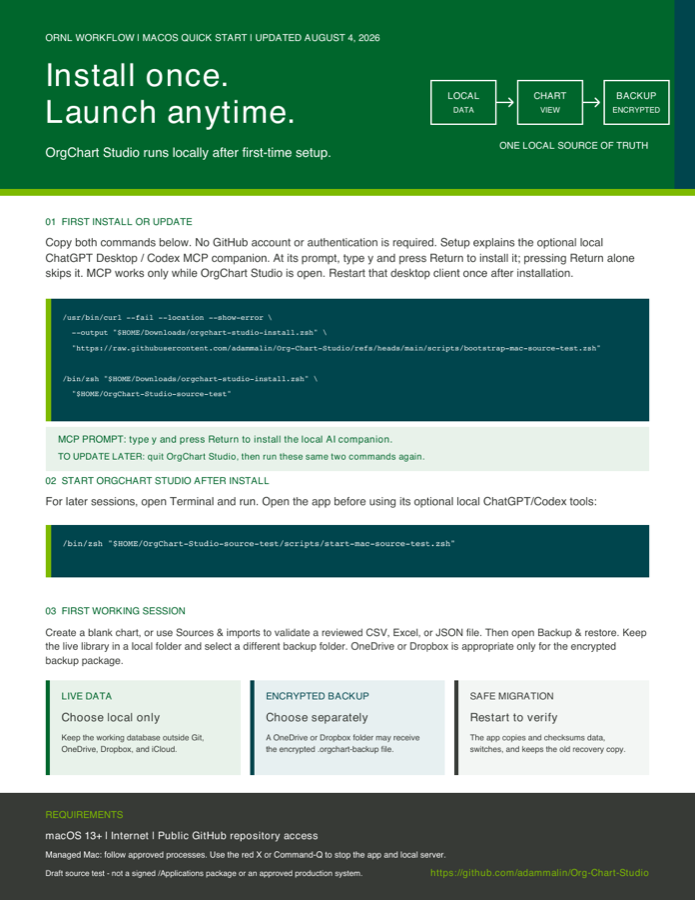
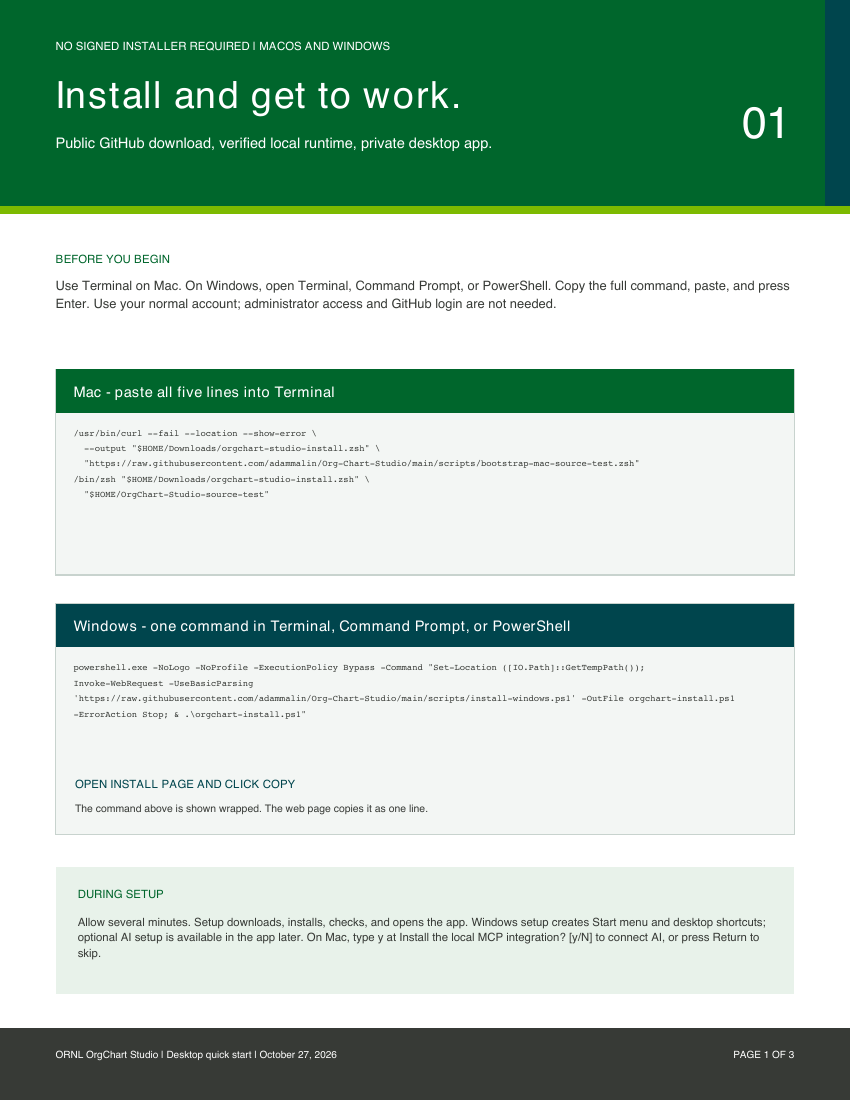
Use one-paste Windows setup for OrgChart Studio

diff --git a/app/app-data.ts b/app/app-data.ts
@@ -96,6 +96,8 @@ export type AppEntry = {
   sourceNote?: string;
 };
 
+const orgChartWindowsInstall = "powershell.exe -NoLogo -NoProfile -ExecutionPolicy Bypass -Command \"Set-Location ([IO.Path]::GetTempPath()); Invoke-WebRequest -UseBasicParsing 'https://raw.githubusercontent.com/adammalin/Org-Chart-Studio/main/scripts/install-windows.ps1' -OutFile orgchart-install.ps1 -ErrorAction Stop; & .\\orgchart-install.ps1\"";
+
 export const sectionLabels: Record<SectionId, string> = {
   overview: "Overview",
   install: "Install",
@@ -278,15 +280,20 @@ export const apps: AppEntry[] = [
     platforms: ["mac", "windows"],
     platformSummary: "macOS 13+ · Windows 10/11",
     guide: {
-      href: assetPath("/assets/guides/ORNL-OrgChart-Studio-macOS-Quick-Start.pdf"),
-      label: "OrgChart Studio macOS Quick Start",
-      note: "2-page supplied guide · August 4, 2026",
+      href: assetPath("/assets/guides/ORNL-OrgChart-Studio-Desktop-Quick-Start-2026-10-27.pdf"),
+      label: "OrgChart Studio Mac & Windows Quick Start",
+      note: "3-page guide · One-paste Windows setup · October 27, 2026",
       preview: assetPath("/assets/guide-previews/orgchart-studio.png"),
     },
     additionalGuides: [
       {
+        href: assetPath("/assets/guides/ORNL-OrgChart-Studio-macOS-Quick-Start.pdf"),
+        label: "Previous macOS-only guide",
+        note: "2-page supplied guide · August 4, 2026",
+      },
+      {
         href: assetPath("/assets/guides/ORNL-OrgChart-Studio-Desktop-Quick-Start.pdf"),
-        label: "Current Mac & Windows Quick Start",
+        label: "Previous Mac & Windows guide (August 2026)",
         note: "3-page repository guide · August 6, 2026",
       },
     ],
@@ -296,7 +303,7 @@ export const apps: AppEntry[] = [
       "Can expose optional local AI tools with chart scoping and human review",
     ],
     quickStart:
-      "The public bootstrap installs into a normal user folder, records the source revision, builds the app, and runs a desktop smoke check.",
+      "On Windows, paste one command into Terminal, Command Prompt, or PowerShell. Setup installs, checks, and opens the app, then creates shortcuts for everyday use. The Mac setup commands are below.",
     privacy:
       "Working chart data stays outside the application folder in Application Support or AppData by default. Use only content approved for the connected AI environment.",
     usageSteps: [
@@ -352,7 +359,7 @@ export const apps: AppEntry[] = [
       setupIntro:
         "The macOS and Windows setup scripts can register the local server in the shared desktop MCP configuration. The ChatGPT desktop app, Codex app, Codex CLI, and Codex IDE extension can use that local configuration; an ordinary ChatGPT web chat cannot reach this private desktop bridge.",
       setupSteps: [
-        "During setup, type y at Install the local MCP integration? [y/N]. If the app is already installed, open AI & MCP control and choose Install local AI integration.",
+        "After installing, open AI & MCP control and choose Install local AI integration. On macOS, you can also type y at the optional setup prompt. Windows setup runs without this prompt.",
         "Restart ChatGPT desktop or Codex once after registration.",
         "Open OrgChart Studio before asking the AI to use a chart tool.",
         "In AI & MCP control, resume MCP only for the intended session and allow all charts or select only the approved chart IDs.",
@@ -440,28 +447,27 @@ export const apps: AppEntry[] = [
           "Windows 10 or 11",
           "Internet access during setup",
           "Public GitHub access",
-          "Use a normal, non-administrator PowerShell window",
+          "Open Terminal, Command Prompt, or PowerShell as your normal user",
+          "Click Copy, paste the complete command once, and press Enter; setup may take several minutes",
         ],
-        install:
-          'Invoke-WebRequest -UseBasicParsing \u0060\n  -Uri "https://raw.githubusercontent.com/adammalin/Org-Chart-Studio/main/scripts/bootstrap-windows-source-test.ps1" \u0060\n  -OutFile "$env:TEMP\\orgchart-studio-install.ps1"\n\npowershell.exe -NoLogo -NoProfile -ExecutionPolicy Bypass \u0060\n  -File "$env:TEMP\\orgchart-studio-install.ps1" \u0060\n  -TargetDirectory "$env:USERPROFILE\\OrgChart-Studio-source-test"',
-        update:
-          'Invoke-WebRequest -UseBasicParsing \u0060\n  -Uri "https://raw.githubusercontent.com/adammalin/Org-Chart-Studio/main/scripts/bootstrap-windows-source-test.ps1" \u0060\n  -OutFile "$env:TEMP\\orgchart-studio-install.ps1"\n\npowershell.exe -NoLogo -NoProfile -ExecutionPolicy Bypass \u0060\n  -File "$env:TEMP\\orgchart-studio-install.ps1" \u0060\n  -TargetDirectory "$env:USERPROFILE\\OrgChart-Studio-source-test"',
+        install: orgChartWindowsInstall,
+        update: orgChartWindowsInstall,
         run:
-          'powershell.exe -NoLogo -NoProfile -ExecutionPolicy Bypass -File "$env:USERPROFILE\\OrgChart-Studio-source-test\\scripts\\start-windows-source-test.ps1"',
+          "powershell.exe -NoLogo -NoProfile -ExecutionPolicy Bypass -Command \"& (Join-Path ([Environment]::GetFolderPath('UserProfile')) 'OrgChart-Studio-source-test\\scripts\\start-windows-source-test.ps1')\"",
         runNote:
-          "You can also double-click Start-OrgChart-Studio.cmd in the source-test folder. Use the red X to stop the interface and private service.",
+          "Choose OrgChart Studio from the Start menu or desktop. If shortcuts are unavailable, double-click Start-OrgChart-Studio.cmd in your OrgChart-Studio-source-test folder. Use the red X to close the app.",
         uninstall: [
           "Create and verify a current backup before removing the app.",
           "If you installed the local AI connection, remove it in Local AI control before deleting the application folder.",
           "Quit OrgChart Studio with the red X.",
-          "In File Explorer, move OrgChart-Studio-source-test from your user folder to the Recycle Bin.",
+          "Remove the OrgChart Studio shortcuts from the desktop and Start menu, then move OrgChart-Studio-source-test from your user folder to the Recycle Bin.",
         ],
         dataNote:
           "The chart library remains in your Windows application-data folder or the separate live-data folder you chose. Backups remain where you saved them. Remove those only when chart-data deletion is intentional and verified.",
       },
     },
     sourceNote:
-      "The supplied August 4 macOS PDF is preserved unchanged. These web instructions and the additional cross-platform PDF follow the newer August 6 repository scripts and backup behavior.",
+      "The current guide and Windows install/update command follow the October 27, 2026 installer. Earlier guides remain available for reference. Windows setup logs are saved under %LOCALAPPDATA%\\ORNL OrgChart Studio\\Installer; setup displays the log location if it fails.",
   },
   {
     slug: "usa-map-studio",

diff --git a/app/components/AppDocs.tsx b/app/components/AppDocs.tsx
@@ -192,23 +192,44 @@ function PlatformCommands({
         const command = details?.[kind];
         if (!details || !command) return null;
         return (
-          <section className="platform-section" key={platform}>
+          <section className="platform-section" id={platform + "-" + kind} key={platform}>
             <h2>
               <PlatformIcon platform={platform} />
               {details.label}
             </h2>
-            <CodeBlock
-              code={command}
-              label={
-                kind === "install"
-                  ? "First install"
-                  : kind === "update"
-                    ? "Update or repair"
-                    : "Launch"
-              }
-            />
+            {app.slug === "orgchart-studio" && platform === "windows" && kind !== "run" ? (
+              <p className="supporting-copy">
+                Open Terminal, Command Prompt, or PowerShell. Click Copy below, paste once,
+                and press Enter. Setup opens the app when it finishes. Optional AI setup is
+                available inside the app later.
+              </p>
+            ) : null}
             {kind === "run" && details.runNote ? (
               <p className="supporting-copy">{details.runNote}</p>
+            ) : null}
+            {app.slug === "orgchart-studio" && platform === "windows" && kind === "run" ? (
+              <details>
+                <summary>Alternate launch command</summary>
+                <CodeBlock code={command} label="Launch" />
+              </details>
+            ) : (
+              <CodeBlock
+                code={command}
+                label={
+                  kind === "install"
+                    ? "First install"
+                    : kind === "update"
+                      ? "Update or repair"
+                      : "Launch"
+                }
+              />
+            )}
+            {app.slug === "orgchart-studio" && platform === "windows" && kind !== "run" ? (
+              <p className="supporting-copy">
+                If setup fails, it displays the setup log location. Close the app and use
+                the same command to retry or repair. For later launches, choose OrgChart
+                Studio from the Start menu or desktop.
+              </p>
             ) : null}
           </section>
         );
@@ -264,7 +285,7 @@ function Install({ app }: { app: AppEntry }) {
     <>
       <section id="before" className="lead-section">
         <span className="eyebrow">First-time setup</span>
-        <h1>Install from source without a signed installer.</h1>
+        <h1>{app.slug === "orgchart-studio" ? "Copy, paste, and open OrgChart Studio." : "Install from source without a signed installer."}</h1>
         <p>
           The checked-in scripts prepare a private runtime, install exact dependencies,
           build the Electron app, and start it as your normal user.
